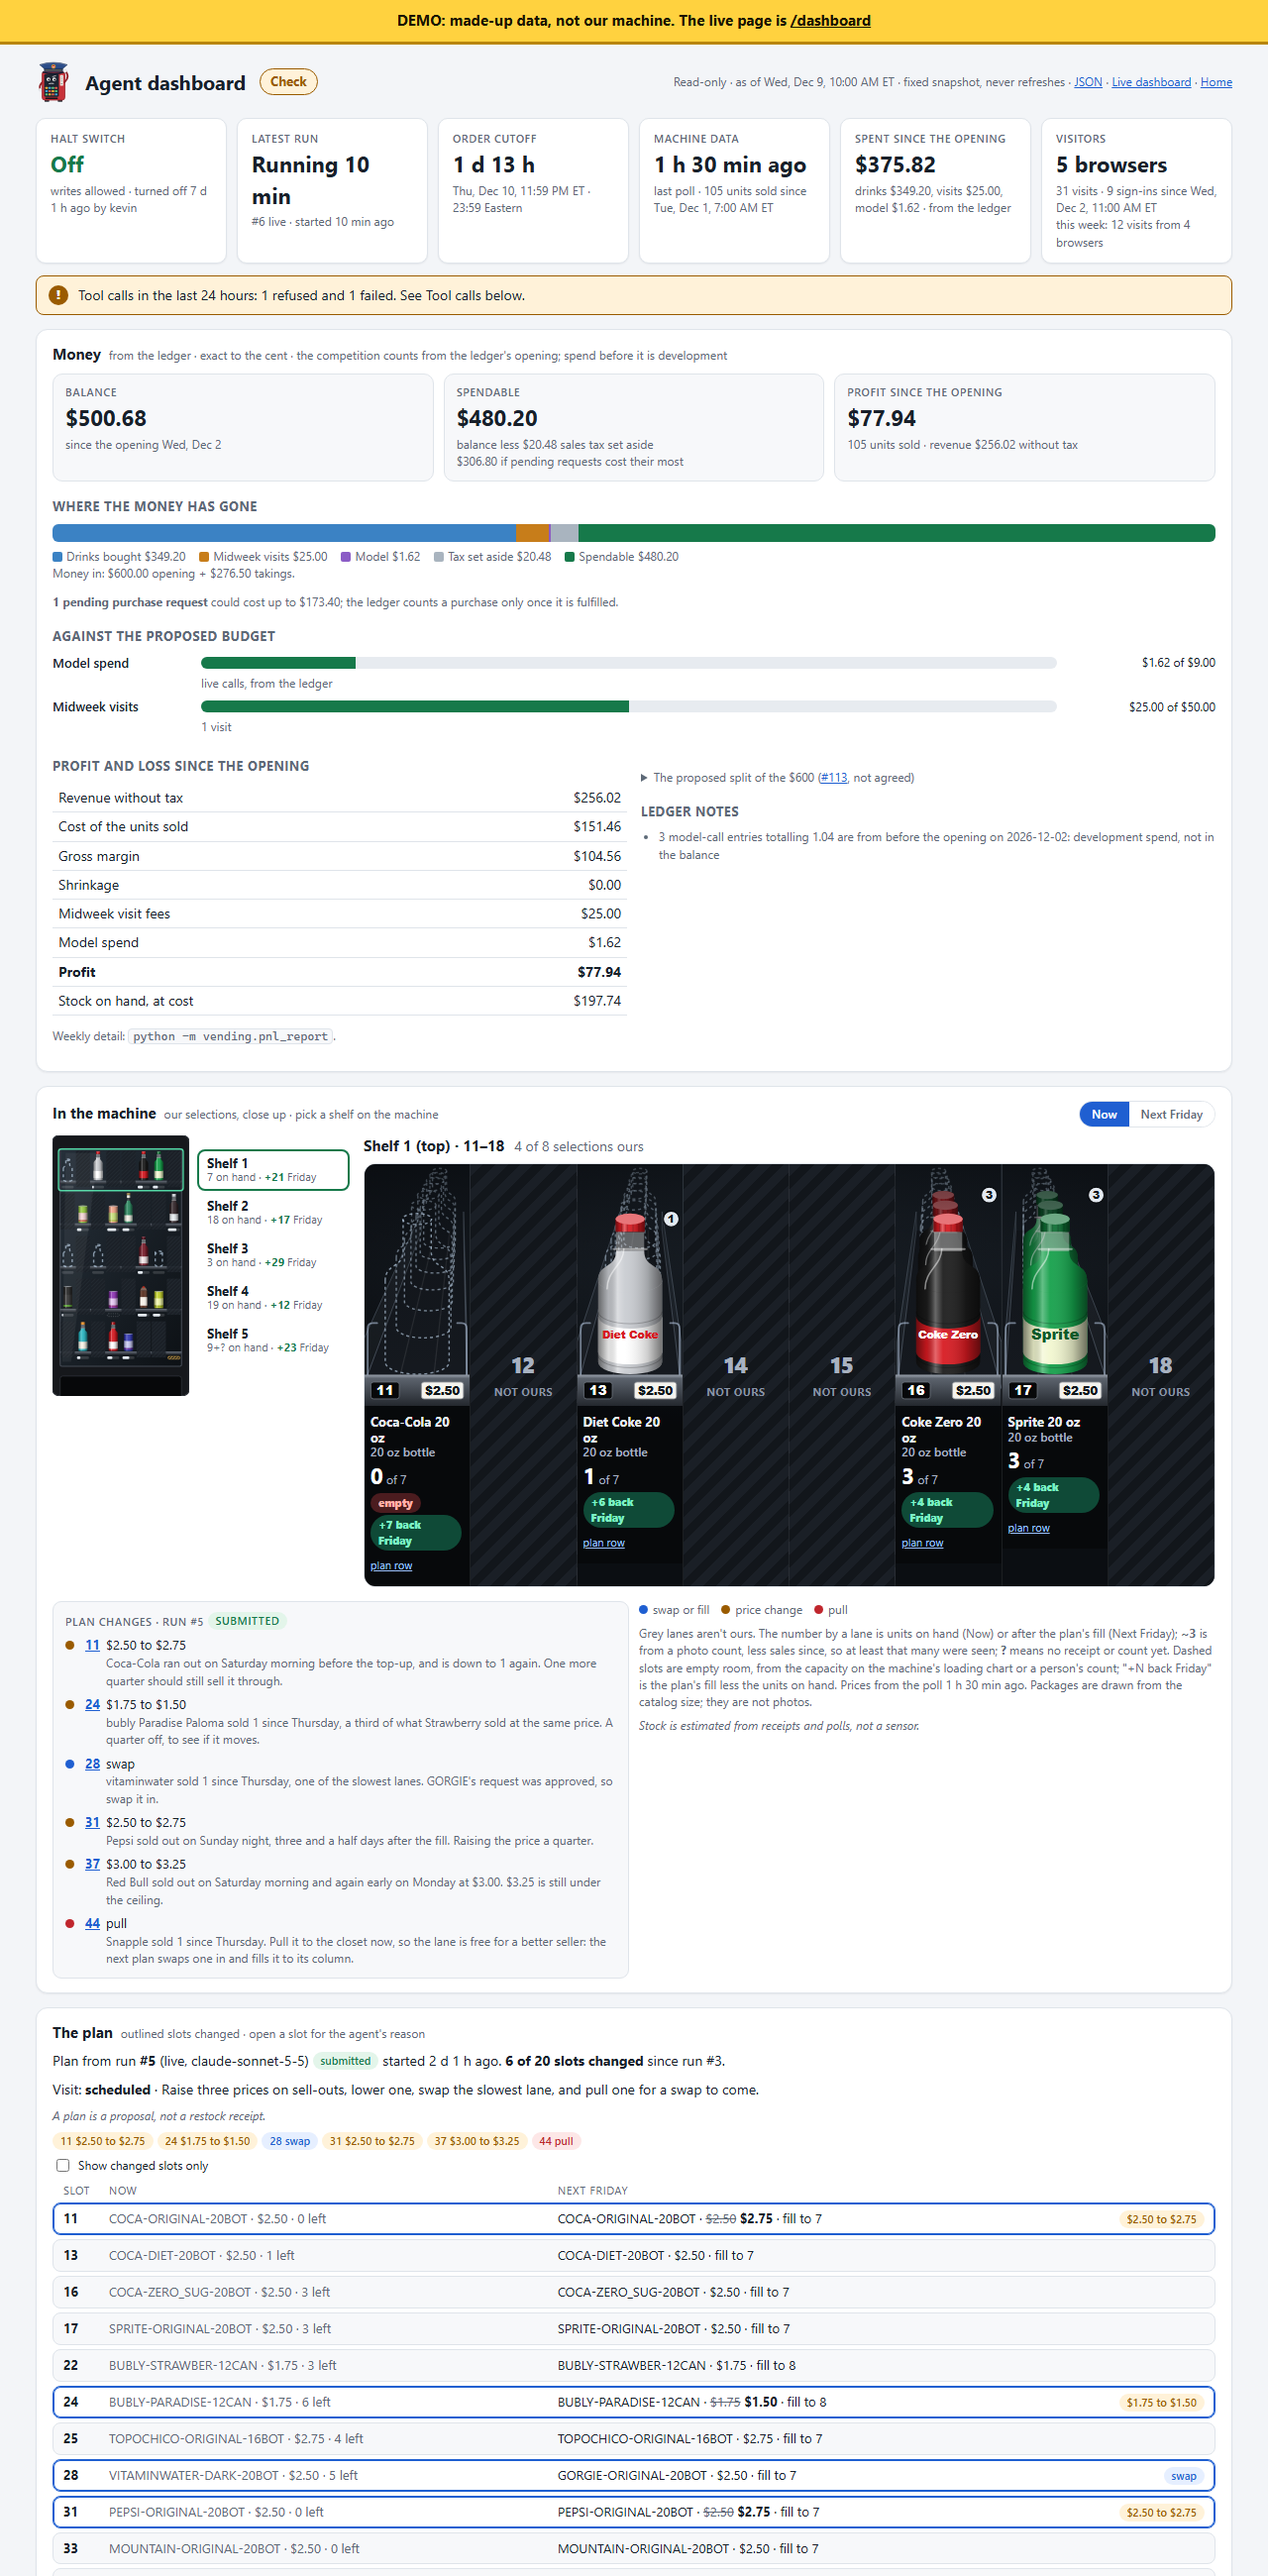
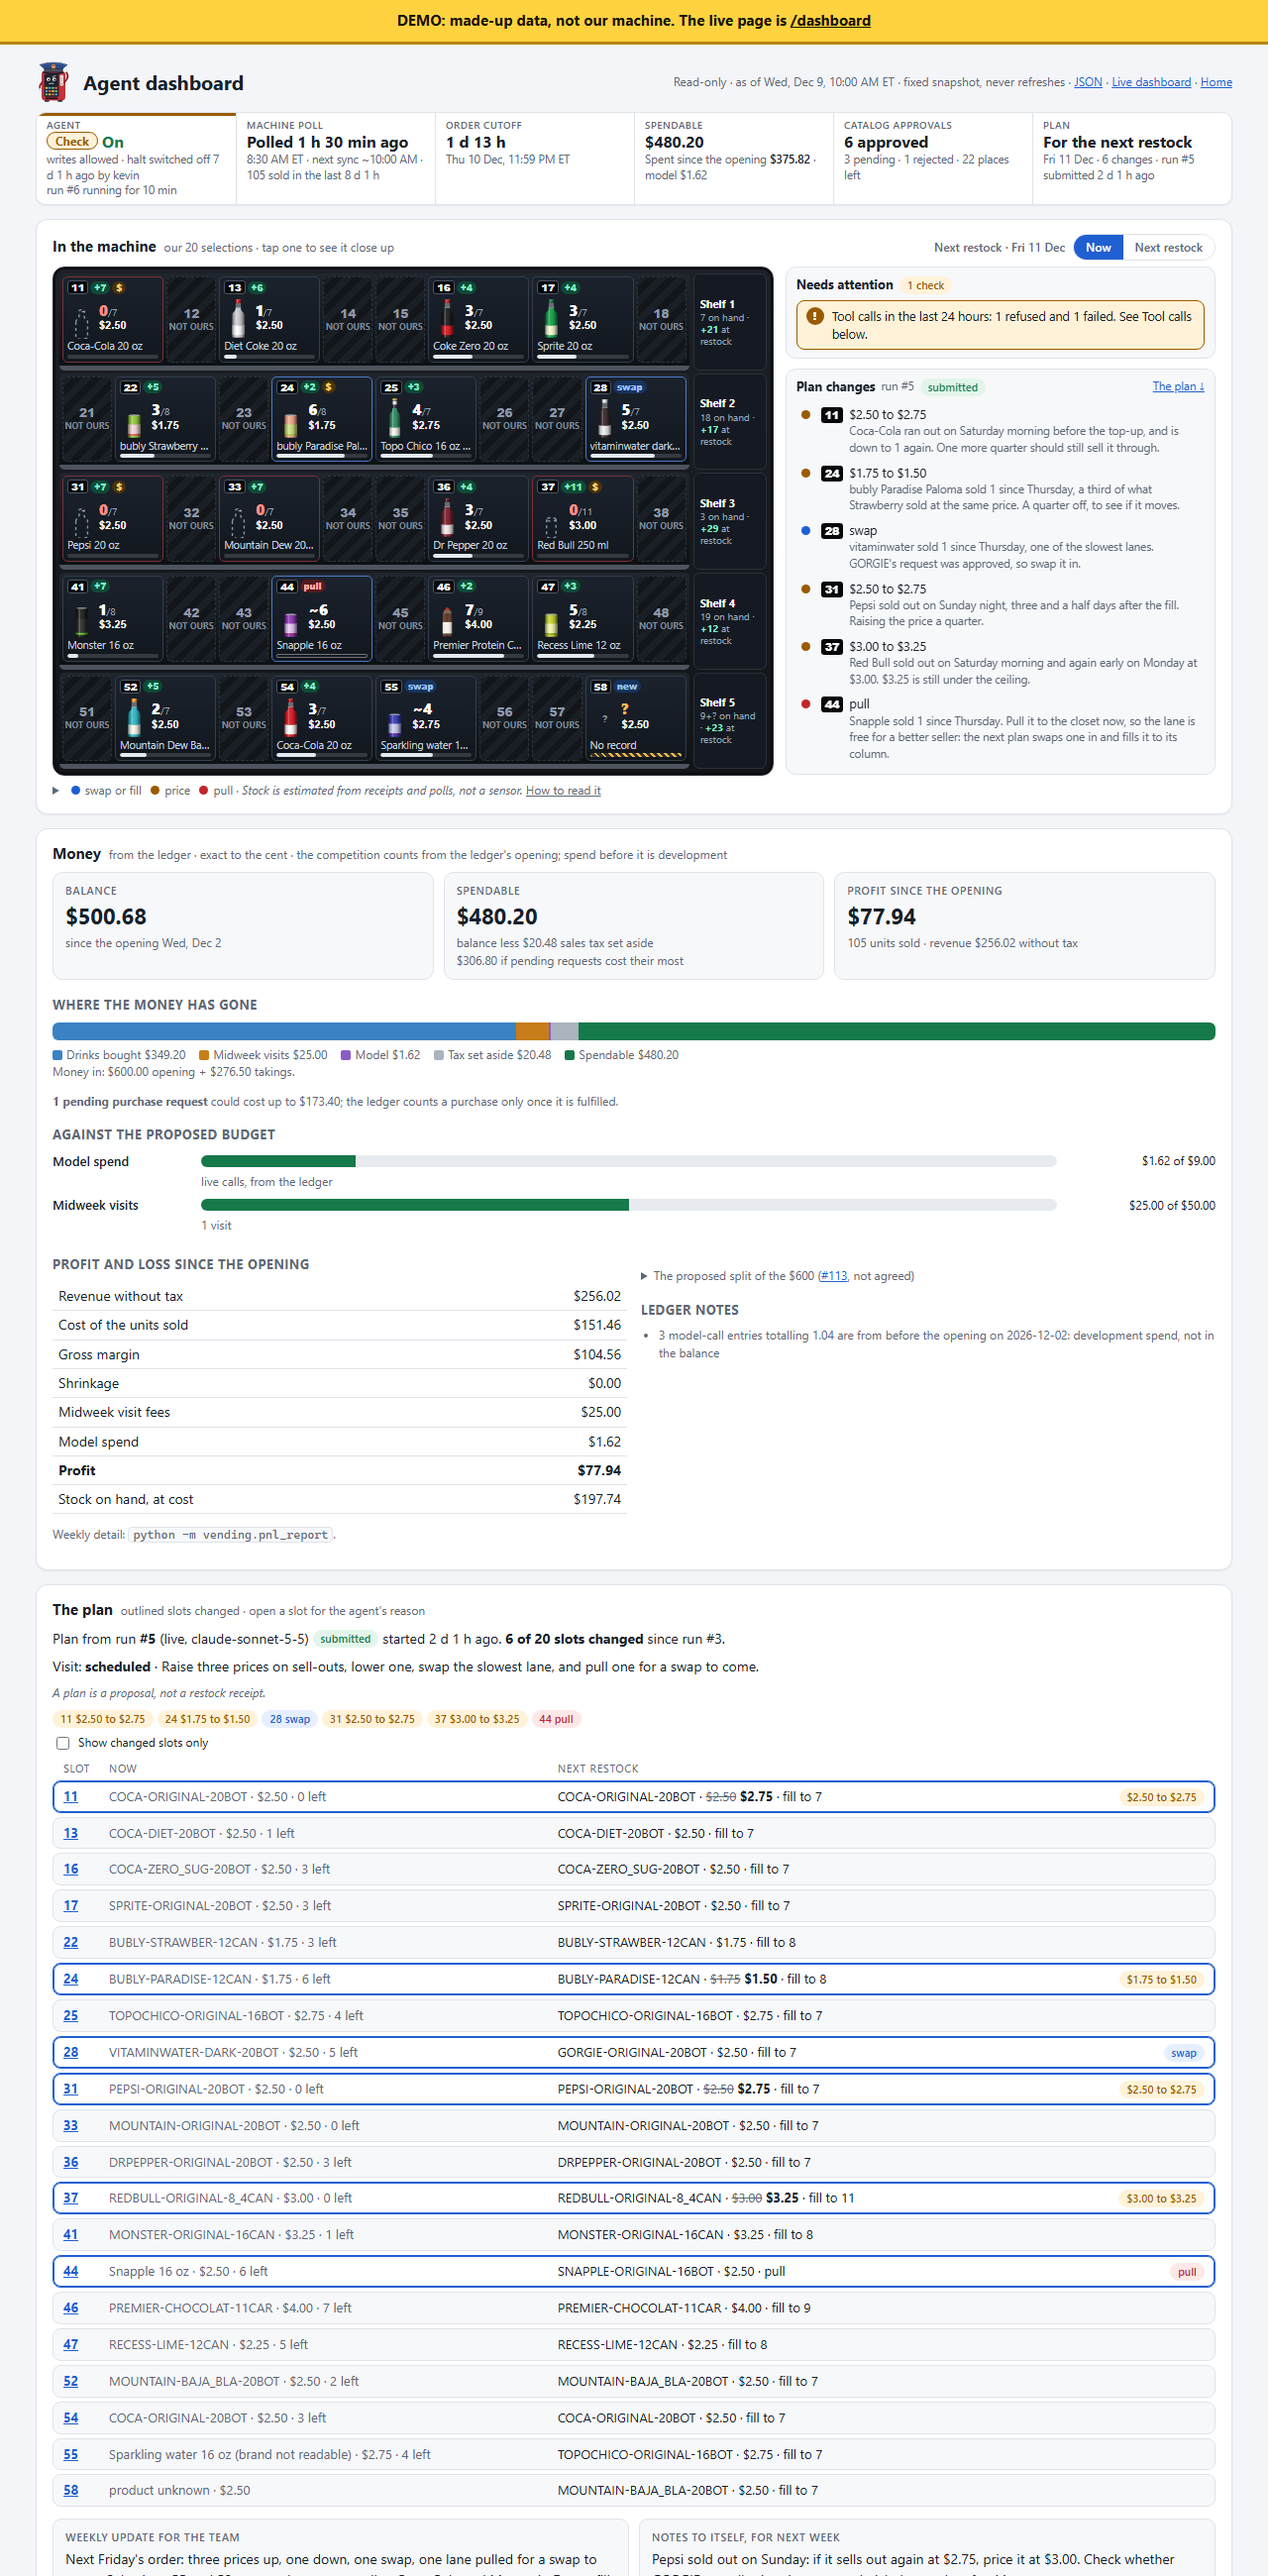
Docs: retake the demo copy's pictures with the ops layout
/dashboard/demo now renders with the status bar, the dense front and
the close-up, so #187's pictures of the old layout were stale. Taken
from the committed made-up snapshot, with its own DEMO banner. The demo
keeps no shelf key in localStorage any more; the docs say so.

diff --git a/docs/dashboard.md b/docs/dashboard.md
@@ -150,8 +150,8 @@ to it as "Demo copy"; the demo links back as "Live dashboard".
   count would need a new `page` value in `page_visits`, whose check allows `/login`, `/dashboard`
   and `/db` only (migration 016), so it is a migration; this change adds none. The counter never
   tries to write a demo view.
-- **Its toggles are its own.** The page keeps the Now / Next Friday choice, the shelf and the
-  filters in `localStorage`, which both pages share by address. The demo uses keys that start
+- **Its toggles are its own.** The page keeps the Now / Next restock choice, the changed-only
+  switch and the tool-call filter in `localStorage`, which both pages share by address. The demo uses keys that start
   `demo-dash-`, the live page `dash-`, so a switch flipped on the demo doesn't move the live page's.
 - **Signed out**, the demo's JSON answers 401 like the live JSON, and its page redirects to the
   password page. A POST to either is refused with 405. The demo can't set off anything that reads
